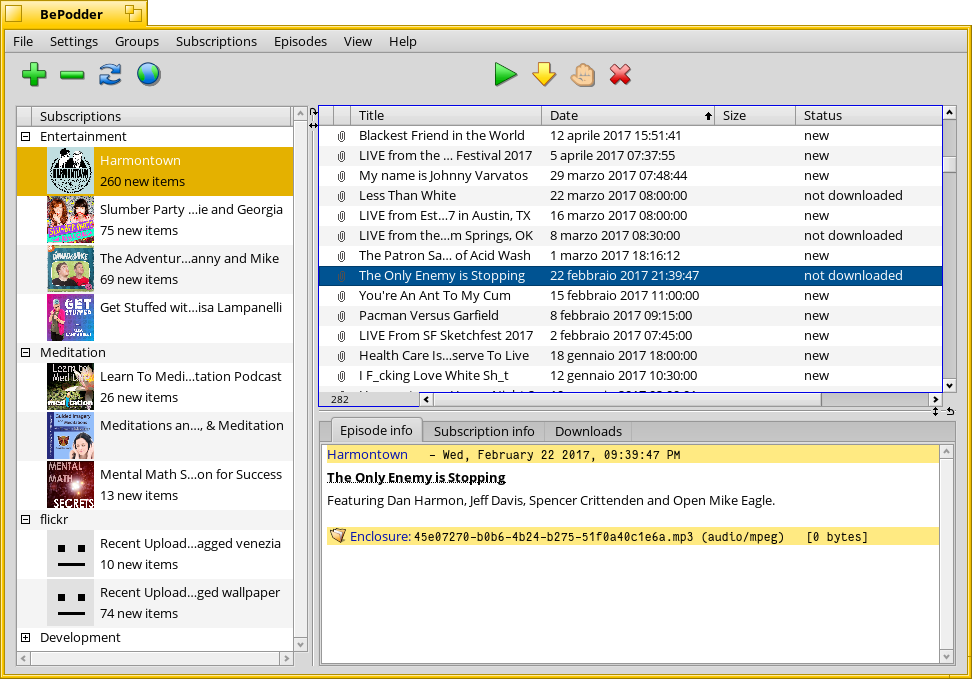
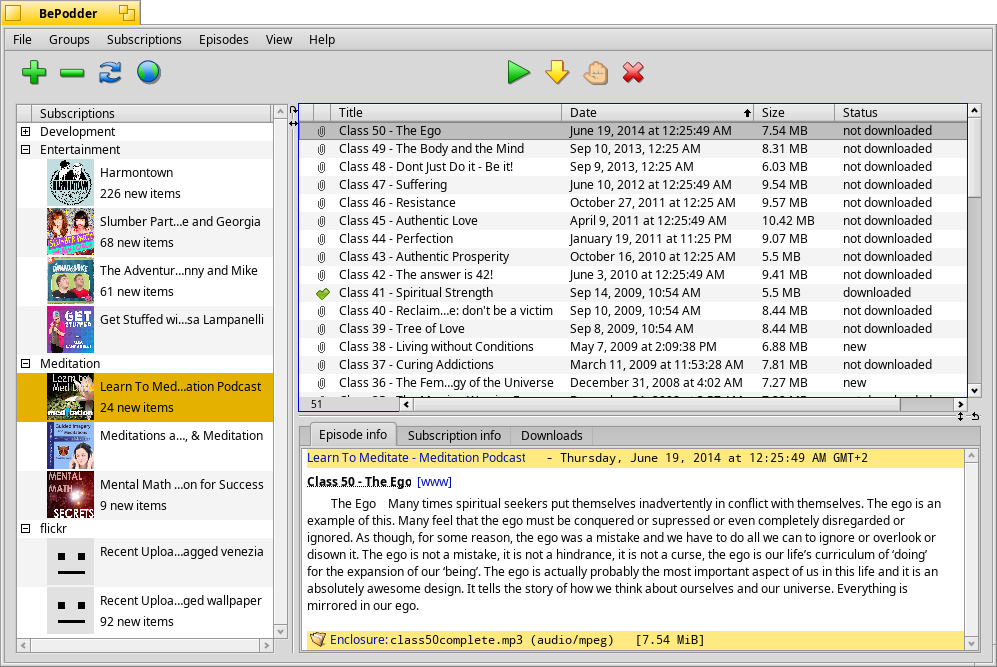
Uses a more standard approach to the menus
* Use ALT+ENTER for full screen
* Use ALT+, for preferences
* Move preferences under file
* Update screenshot
* Fixes #67

diff --git a/sources-experimental/MainWindow.cpp b/sources-experimental/MainWindow.cpp
@@ -413,23 +413,19 @@ MainWindow::CreateMenuBar(){
 	
 	BMenu  *podderfile = new BMenu(B_TRANSLATE("File"),B_ITEMS_IN_COLUMN);
 	poddermenubar->AddItem(podderfile);
-	
-	podderfile->AddItem(new BMenuItem(B_TRANSLATE("Import OPML" B_UTF8_ELLIPSIS) , new BMessage(IMPORT_OPML), 0, 0));
-	podderfile->AddItem(new BMenuItem(B_TRANSLATE("Export OPML" B_UTF8_ELLIPSIS) , new BMessage(EXPORT_OPML), 0, 0));
 	BMenuItem *podderaboutitem = new BMenuItem(B_TRANSLATE("About BePodder"),new BMessage(B_ABOUT_REQUESTED),0,0);
 	podderaboutitem->SetTarget(be_app);
 	podderfile->AddItem(podderaboutitem);
-	
+	podderfile->AddSeparatorItem();
+	podderfile->AddItem(new BMenuItem(B_TRANSLATE("Import OPML" B_UTF8_ELLIPSIS) , new BMessage(IMPORT_OPML), 0, 0));
+	podderfile->AddItem(new BMenuItem(B_TRANSLATE("Export OPML" B_UTF8_ELLIPSIS) , new BMessage(EXPORT_OPML), 0, 0));
+	podderfile->AddSeparatorItem();
+	podderfile->AddItem(new BMenuItem(B_TRANSLATE("Preferences" B_UTF8_ELLIPSIS),new BMessage(SHOW_SETTINGS),',',0));
+	podderfile->AddSeparatorItem();
 	BMenuItem *quititem = new BMenuItem(B_TRANSLATE("Quit"),new BMessage(B_QUIT_REQUESTED),'Q',0);
 	quititem->SetTarget(be_app);
 	podderfile->AddItem(quititem);
-	
-	BMenu  *settingsfile = new BMenu(B_TRANSLATE("Settings"),B_ITEMS_IN_COLUMN);
-	poddermenubar->AddItem(settingsfile);
-	
-	BMenuItem *podderpreferencesitem = new BMenuItem(B_TRANSLATE("Preferences" B_UTF8_ELLIPSIS),new BMessage(SHOW_SETTINGS),'P',0);
-	settingsfile->AddItem(podderpreferencesitem);
-	
+
 	groups = new BMenu(B_TRANSLATE("Groups"),B_ITEMS_IN_COLUMN);
 	poddermenubar->AddItem(groups);
 	
@@ -454,7 +450,7 @@ MainWindow::CreateMenuBar(){
 	BMenu  *podderview = new BMenu(B_TRANSLATE("View"),B_ITEMS_IN_COLUMN);
 	poddermenubar->AddItem(podderview);
 	
-	fullscreenitem = new BMenuItem(B_TRANSLATE("Full screen"),new BMessage(SET_FULLSCREEN),'F',0);
+	fullscreenitem = new BMenuItem(B_TRANSLATE("Full screen"),new BMessage(SET_FULLSCREEN), B_ENTER, 0);
 	podderview->AddItem(fullscreenitem);
 	fullscreenitem->SetMarked(false);
 	
